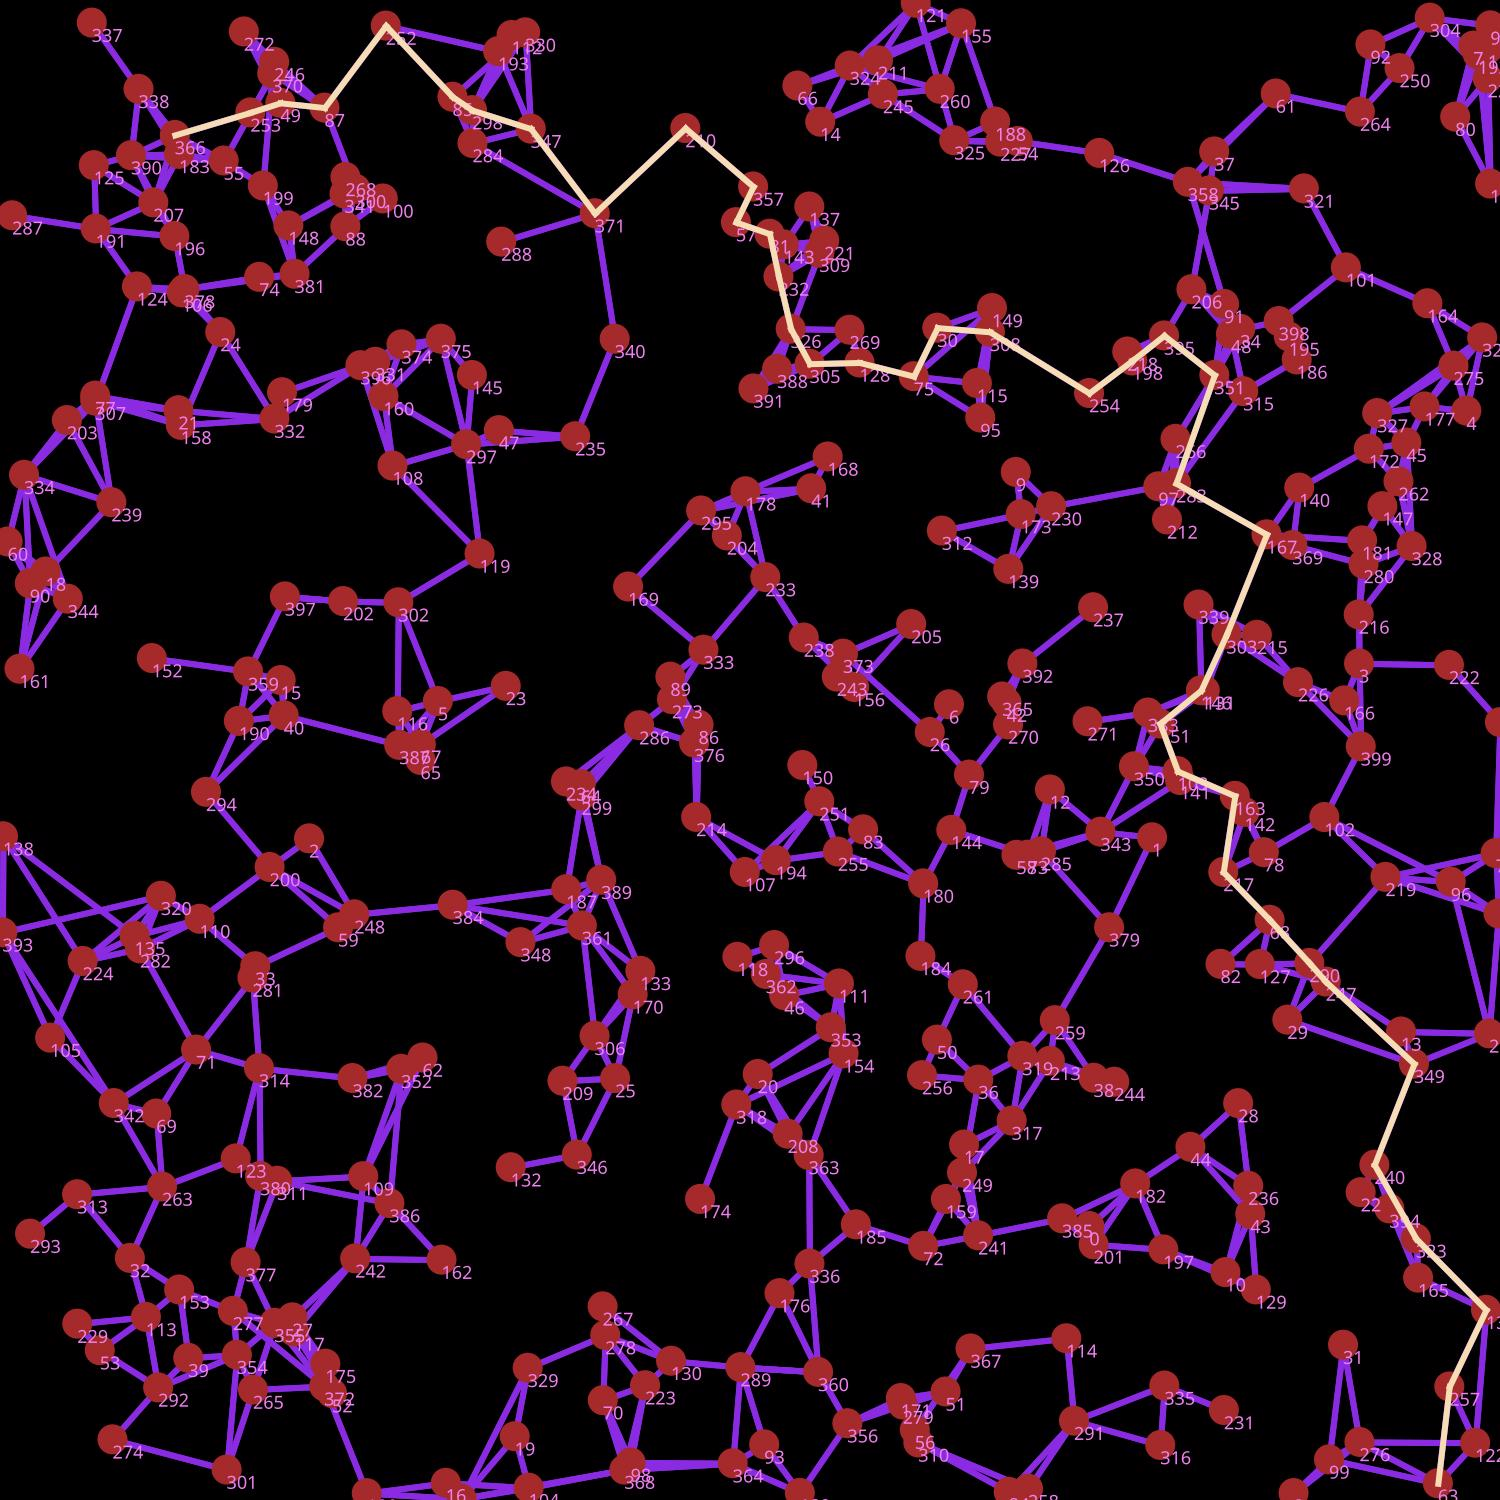
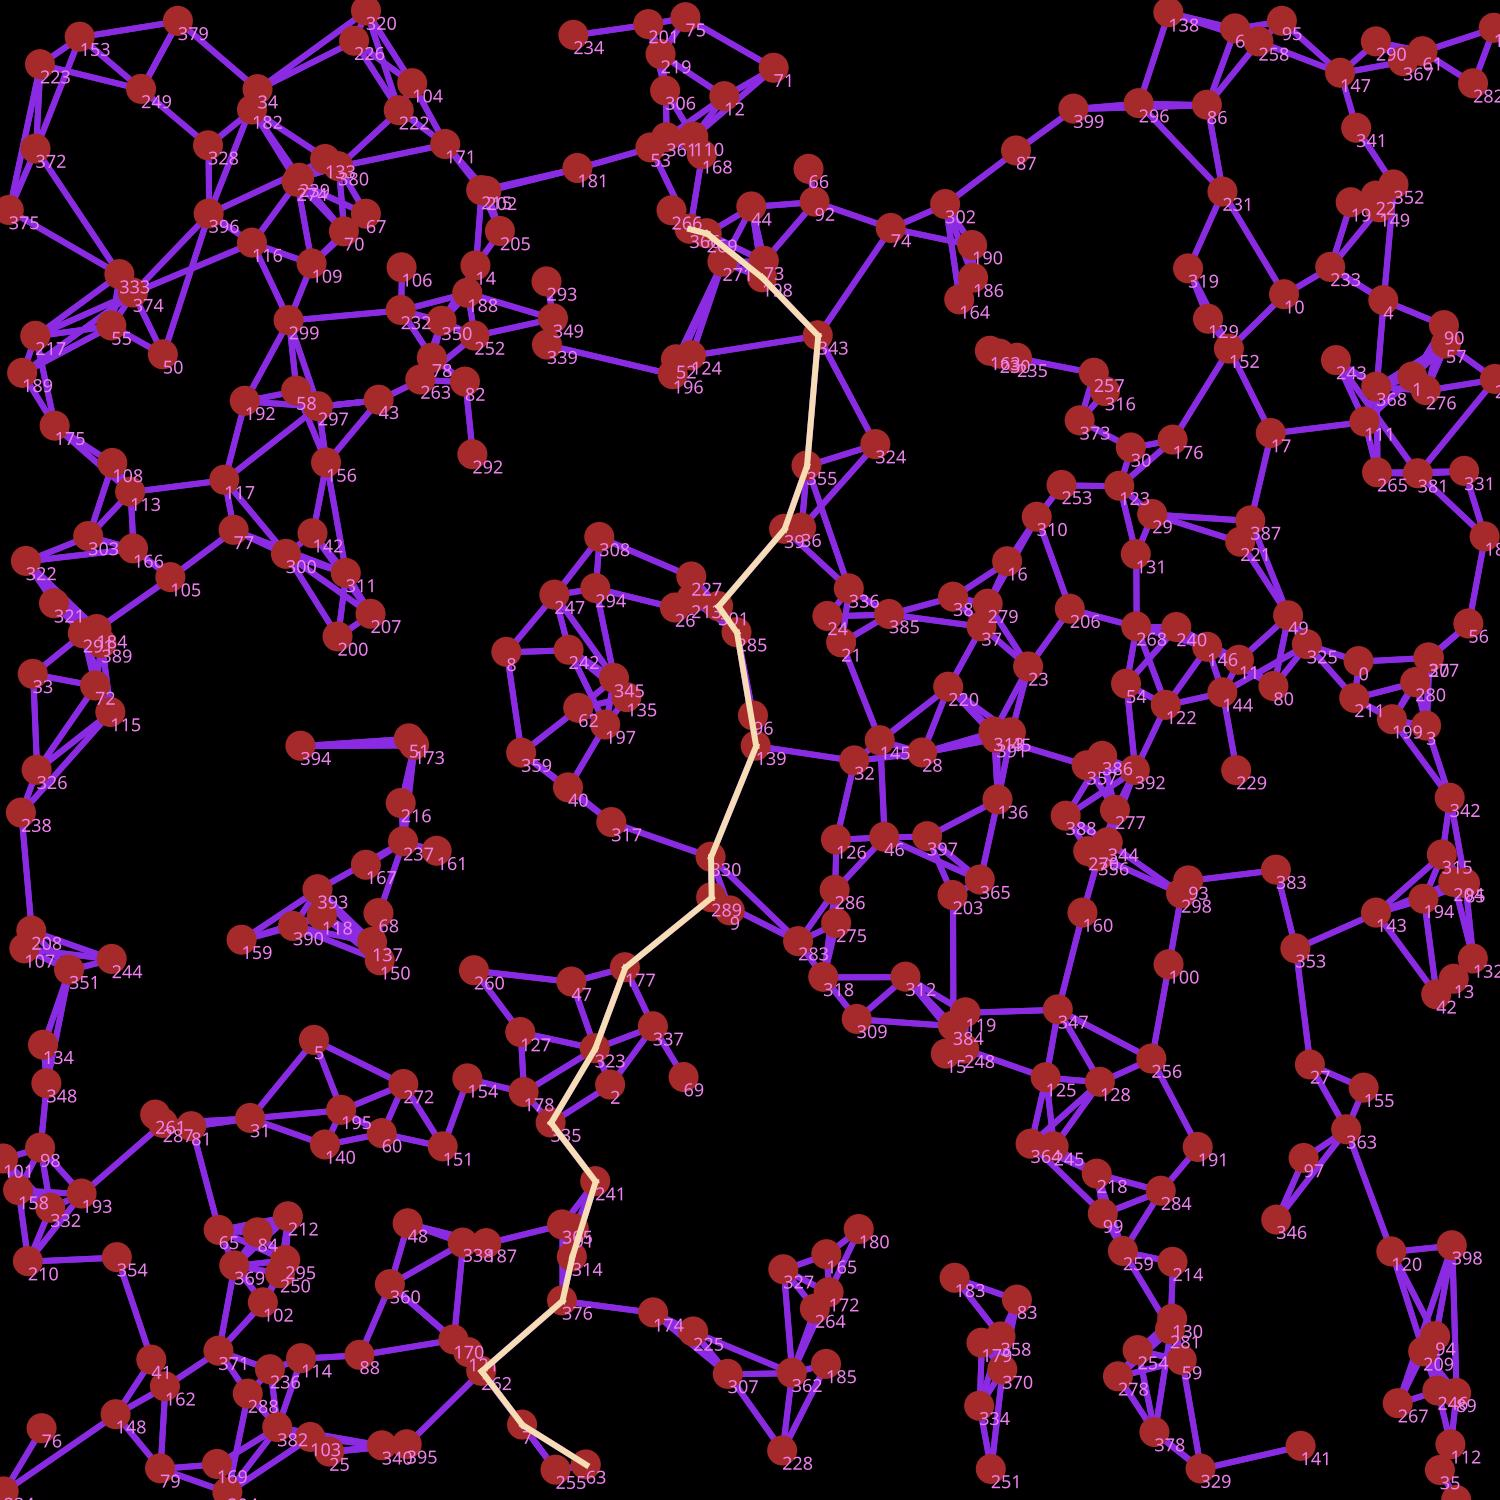
changed saving file name

diff --git a/samples/FindTheShortestPath/Program.cs b/samples/FindTheShortestPath/Program.cs
@@ -10,12 +10,12 @@ using SixLabors.ImageSharp.PixelFormats;
 //this program showing how to find the shortest path betwen two nodes
 //by summing and comparing sum of visited path
 
-var rand = new Random(0);
+var rand = new Random(1212);
 var nodes = NodeGraphFactory.CreateNodes(400,id=>new NodeXY(id,rand.NextDouble(),rand.NextDouble()));
 
 // NodeGraphFactory.ConnectRandomCountOfNodes(nodes, 0, 2, rand, (node, parent) => new NodeConnector(node, parent));
 
-Helpers.ConnectToClosestNodes(nodes.Select(x=>(NodeXY)x).ToList(),1,4,rand);
+Helpers.ConnectToClosestNodes(nodes.Select(x=>(NodeXY)x).ToList(),1,4);
 NodeGraphFactory.MakeUndirected(nodes,(node,parent)=>new NodeConnector(node,parent));
 
 var startNode = nodes[366];
@@ -50,6 +50,6 @@ if(path.Count>0){
     drawer.DrawLineBrush = Brushes.Solid(Color.Wheat);
     drawer.DrawPath(image,path);
 }
-image.SaveAsJpeg("file1.jpg");
+image.SaveAsJpeg("example.jpg");
 
 System.Console.WriteLine($"---Path length {pathFinder.GetPathLength(endNode)}");
